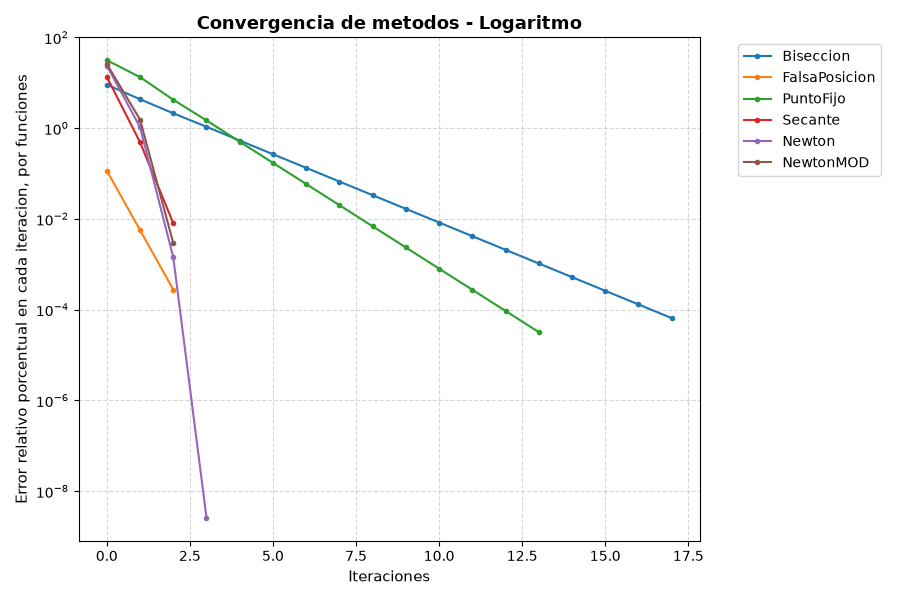
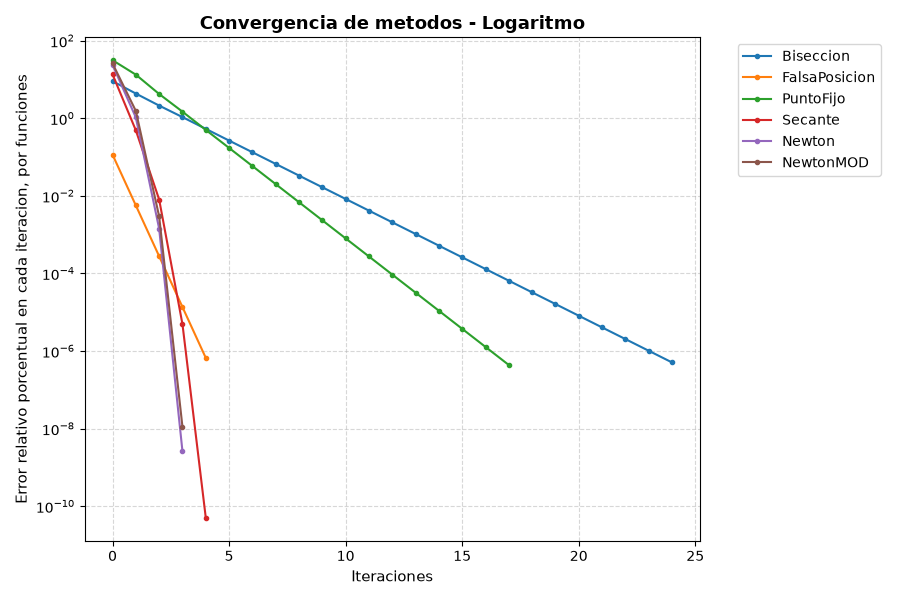
README y ajuste en metodos

diff --git a/src/scripts/nr_modificado.py b/src/scripts/nr_modificado.py
@@ -10,6 +10,8 @@ def siguiente_punto(funcion, derivada, segunda_derivada, x_actual): #Formula
     evaluacion_segunda_derivada = float(segunda_derivada.subs(sp.symbols('x'), x_actual))
     numerador = funcion(x_actual) * evaluacion_derivada
     denominador = (evaluacion_derivada**2) - funcion(x_actual) * evaluacion_segunda_derivada
+    if denominador == 0:
+        return None
     x_nueva = x_actual - (numerador / denominador)
     return x_nueva
 
@@ -21,12 +23,14 @@ def newton_raphson_modificado(funcion, x_actual, tolerancia, max_iteraciones): #
 
     while iteracion < max_iteraciones:
         x_nueva = siguiente_punto(funcion, derivada, segunda_derivada, x_actual)
+        if x_nueva is None:
+            return x_actual, errores, iteracion  
         error = abs((x_nueva - x_actual) / x_nueva) * 100 if x_nueva != 0 else abs(x_nueva - x_actual) * 100
         errores.append(error)
-        x_actual = x_nueva
 
-        if abs(funcion(x_actual)) < tolerancia:
+        if error < tolerancia:
             return x_actual, errores, iteracion
+        x_actual = x_nueva
         
         iteracion += 1
 

diff --git a/src/main.py b/src/main.py
@@ -1,3 +1,4 @@
+#Modulos
 import matplotlib.pyplot as plt
 import csv
 from scripts.biseccion import biseccion #funcion,a,b,tolerancia,max_iteraciones
@@ -10,6 +11,7 @@ from data.casos_estudio import CE
 
 
 
+#Primera parte
 t = CE["Tolerancia"]
 it = CE["Iteraciones"]
 ps = CE["PolinomioSimple"]
@@ -110,6 +112,7 @@ def mejor_raiz(resultados, funciones):
 
 
 
+#Segunda parte
 def crear_csv(resultados, funciones, metodos):
     with open("src\\data\\resultados.csv", "w", newline="", encoding="utf-8") as archivo:
         escritor = csv.writer(archivo)
@@ -144,6 +147,7 @@ def csv_funciones(resultados, nombres_funciones, nombres_metodos, fx):
 
 
 
+#Tercera parte
 def grafico_FuncionRaiz(mejores_puntos):
     _, ax = plt.subplots(2, 3)
 
@@ -287,3 +291,5 @@ if __name__ == "__main__":
     grafico_FuncionRaiz(mejores_puntos)
     grafico_ErrorIteracion(resultados, nombres_funciones, nombres_medotos)
     grafico_CantidadIteraciones(resultados, nombres_funciones, nombres_medotos)
+
+    print("Fin de ejecucion")

diff --git a/src/scripts/secante.py b/src/scripts/secante.py
@@ -11,11 +11,11 @@ def secante(funcion, x_actual, x_anterior, tolerancia, max_iteraciones): #Paso i
         x_nueva = nuevo_punto(funcion, x_actual, x_anterior)
         error = abs((x_nueva - x_actual) / x_nueva) * 100 if x_nueva != 0 else abs(x_nueva - x_actual) * 100
         errores.append(error)
+
+        if error < tolerancia:
+            return x_nueva, errores, iteracion
         x_anterior = x_actual
         x_actual = x_nueva
-
-        if abs(funcion(x_nueva)) < tolerancia:
-            return x_nueva, errores, iteracion
         
         iteracion += 1
 

diff --git a/src/scripts/newton_raphson.py b/src/scripts/newton_raphson.py
@@ -18,7 +18,7 @@ def newton_raphson(funcion, x_actual, tolerancia, max_iteraciones): #paso iterat
         x_nueva = float(siguiente_punto(funcion, derivada, x_actual))
         error = abs((x_nueva - x_actual) / x_nueva) * 100 if x_nueva != 0 else abs(x_nueva - x_actual) * 100
         errores.append(error)
-        if abs(funcion(x_actual)) < tolerancia:
+        if error < tolerancia:
             return x_actual, errores, iteracion
 
         x_actual = x_nueva

diff --git a/src/scripts/punto_fijo.py b/src/scripts/punto_fijo.py
@@ -48,7 +48,7 @@ def punto_fijo(funcion, x0, tolerancia, max_iteraciones): #Metodo iterativo
 
         error = abs((x1 - x0) / x1) * 100 if x1 != 0 else abs(x1 - x0) * 100
         errores.append(error)
-        if abs(x1 - x0) < tolerancia:
+        if error < tolerancia:
             return x1, errores, iteraciones
         x0 = x1
         iteraciones += 1

diff --git a/src/scripts/biseccion.py b/src/scripts/biseccion.py
@@ -26,9 +26,6 @@ def biseccion(funcion, a, b, tolerancia, max_iteraciones): #metodo iterativo
             b = c
         else:
             a = c
-
-        if abs(funcion(c)) < tolerancia: 
-            return c, errores, iteracion
         iteracion += 1
 
     return None, "No se llego a una solucion dentro del numero maximo de itraciones"

diff --git a/src/scripts/falsa_posicion.py b/src/scripts/falsa_posicion.py
@@ -32,8 +32,6 @@ def falsa_posicion(funcion, a, b, tolerancia, max_iteraciones): #iteracion
             b = c
         else:
             a = c
-        if abs(funcion(c)) < tolerancia:
-            return c, errores, iteracion
         iteracion += 1
 
     return None, "No se llego a una solucion dentro del numero maximo de itraciones"

diff --git a/README.md b/README.md
@@ -1,0 +1,53 @@
+# Documentacion
+
+## Instalacion Repositorio
+
+completar al final...
+
+## Bibliotecas
+
+- **sympy:** Utilizado para calculos matematicos. Se elige por sombre *numpy*, pues *sympy* permite un calculo mas sencillo de las derivadas para poder aplicarlas en los metodos numericos requeridos.
+  
+```python
+import sympy as sp 
+```
+
+- **csv:** Utilizado para crear documentos .csv requeridos en la pauta
+
+```python
+import csv
+```
+
+- **matplotlib:** Utilizado para crear los graficos de los analisis numericos requeridos en la pauta.
+  
+```python
+import matplotlib.pyplot as plt 
+```
+
+## Codigos de Pyhton
+
+- **\src\data\casos_estudios.py:** Codigo de Python que contiene un diccionario con todas las funciones a estudiar, mas algunos elementos claves (Tolerancia, Iteraciones maximas permitidas). Las funciones del diccionario presentan datos claves para su estudio, como; puntos iniciales *x0*, *x1* y rangos *[a, b]*. Las funciones *f(x)* estan implementadas como funciones **lambda** para poder facilitar los calculos.
+- **\src\scripts\biseccion.py:** Implementacion del metodo de Biseccion. El codigo cuenta con 3 funciones: *bolzano()* -> Retorna un valor booleano si hay cambio de signo. *valor_medio()* -> Calculo punto C. *biseccion()* -> Proceso iterativo del metodo.
+- **\src\scripts\falsa_posicion.py:** Implementacion del metodo de Falsa Posicion. El codigo cuenta con 3 fucniones: *bolzano()* -> Retorna un valor booleano si hay cambio de signo. *punto_corte()* -> Calculo del punto C a partir de rectas. *falsa_posicion()* -> Proceso iterativo del metodo.
+- **\src\scripts\newton_raphson.py:** Implementacion del metodo de Newton-Raphson. El codigo cuenta con 3 funciones: *derivar()* -> Calcula la derivada de la funcion con **sympy**. *siguiente_punto()* -> Calculo del siguiente punto utilizando la recta tangente a la funcion. *newton_raphson()* -> Proceso iterativo del metodo.
+- **\src\scripts\nr_modificado.py:** Implementacion del metodo de Newton-Raphson Modificado. El codgo cuenta con 3 funciones: *derivar()* -> Deriva la funcion con **sympy**. *siguiente_punto()* -> Busca una posible raiz de forma similar al metodo anterior, pero modificando la formula para mejorar convergencia. *nweton_raphson_modificado()* -> Proceso iterativo del metodo.
+- **\src\scripts\punto_fijo.py:** Implementa el metodo de Punto Fijo. El codigfo cuenta con 2 funciones: *g_x()* -> Obtiene g(x) a partir de f(x). En el primer **for** la funcion encuentra todas las formas posibles de despejar la funcion, en el segundo **for** se utiliza **sympy** para despejar cada uno de las posibles formas de despejar la funcion, dejando todo de la forma x = g(x), en el ultimo **for** se verifica si el punto y la funcion elegida cumplen con que al derivada de |g(x)| sea menor a 0. *punto_fijo()* -> Proceso iterativo del metodo.
+- **\src\scripts\secante.py:** Implementa el metodo de la Secante. El codigo cuenta con 2 funciones: *nuevo_punto()* -> Busca el neuvo punto a aprtir de una recta secante que pasa por dos puntos de la funcion. *secante()* -> Proceso iterativo del metodo.
+
+## main.py
+
+Script principal del programa, se encuentra en la ruta **\src\main.py**, este codigo a diferencia de los otros se encuentra en la raiz de la carpeta **\src**, para que no se mezcle con los demas codigos que se utilizan como modulos dentro de la misma.
+
+El codigo dentro del programa se encuentra divido en 4 secciones principales:
+
+- **Librerias:** Se utiliza *csv* y *matplotlib*, mas los modulos propios *\src\data\casos_estudio.py* y los codigos .py de la carpeta *\src\scripts*.
+- **Primera parte:** Se definen variables globales a partir del diccionario de *casos_estudio.py*. En la funcion *obtener_resultados()* se utilizan las variables globales para acceder a todas las funciones y los datos asociados a ella, ademas de utilizar todos los scripts de la carpeta *\src\scripts* para el calculo de todos los metodos numericos en todas las funciones estudiadas. Esta parte cuenta con 2 funciones mas que son de ayuda para obtener datos para posteriormente analizar y generar graficos y archivos.
+- **Segunda parte:** Creacion de archivos .csv, alojados en la ruta *\src\data*. El primer archivo.csv creado corresponde a los datos referidos a la raiz, error (ultimo error del historial de errores) y la cantidad de iteraciones. El segundo archivo.csv corresponde al solicitado en el cual se encuantra las funciones y metodos correspondientes, junto con sus raices *x* y las funciones evaluadas en las raices *f(x)*.
+- **Tercera parte:** Creacion de graficos. Primera funcion *grafico_FuncionRaiz()* -> Se muestran las funciones graficadas, con un punto senialado (raiz), el punto elegido fue seleccionado de entre el resultado de todos los metodos, escogiendo asi la raiz mas cercana al 0 evaluada en la funcion. Segunda funcion *grafico_ErrorIteracion()* -> 6 graficos que representan como el error se hace cada vez mas pequenio por cada iteracion que hace el metodo. Tercer grafico *grafico_CantidadIteraciones()* -> Corresponde a la representacion de cuantas iteraciones necesito cada metodo hasta llegar al criterio de parada, en cada una de las funciones.
+
+### Observaciones
+
+- No se utiliza la libreria numpy, pues es su lugar se utiliza sympy. La eleccion anterior tiene realcion con que sympy trae funciones propias para obtener la derivada de una funcion sin necesidad de hacerlo a mano. Tambien para evitar errores matematicos se siguio utilizando sympy para cualquier funcion matemarica asociada, como cos(), sqrt(), ln(), etc.
+- En los documentos, si el metodo no llega a una raiz se pone el argumento *NAN* indicando que el resultado no es un numero (no converge con las condiciones dadas). En los documentos como tal no es posible identificar porque falla, sin embargo a traves de consola utilizando *prints* en el programa si es posible hacerlo. En cuanto a los graficos, si el valor a graficar es *None* simplemnte no se grafica.
+- Se declara uso de IA para ayuda en sintaxis en las librerias utilizadas (sympy, matplotlib, csv).
+- Proyecto realizado por: Hugo Albornoz Contreras - COMPUTACIÓN NUMÉRICA-S2 [INF321]|secc:S2
